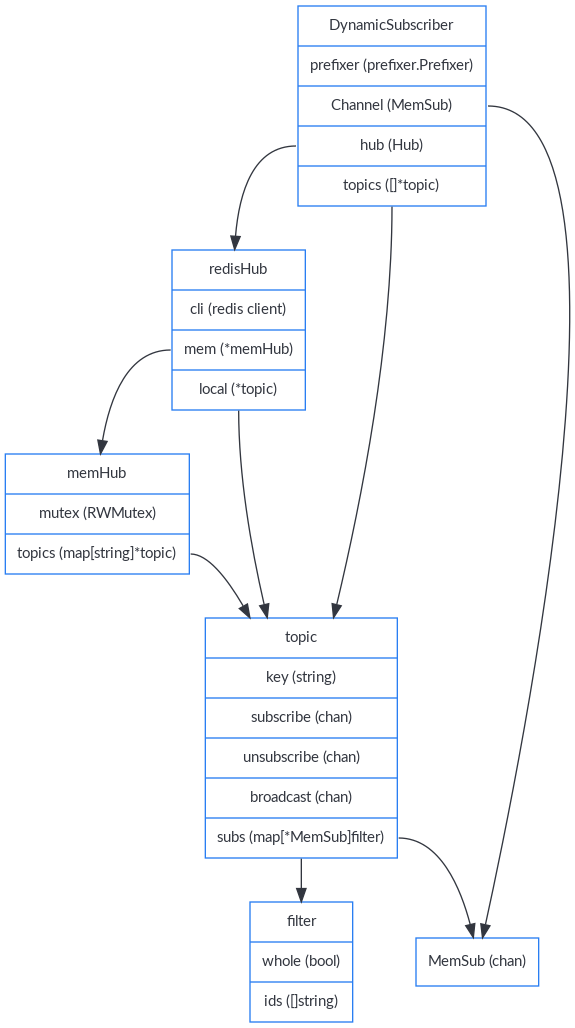
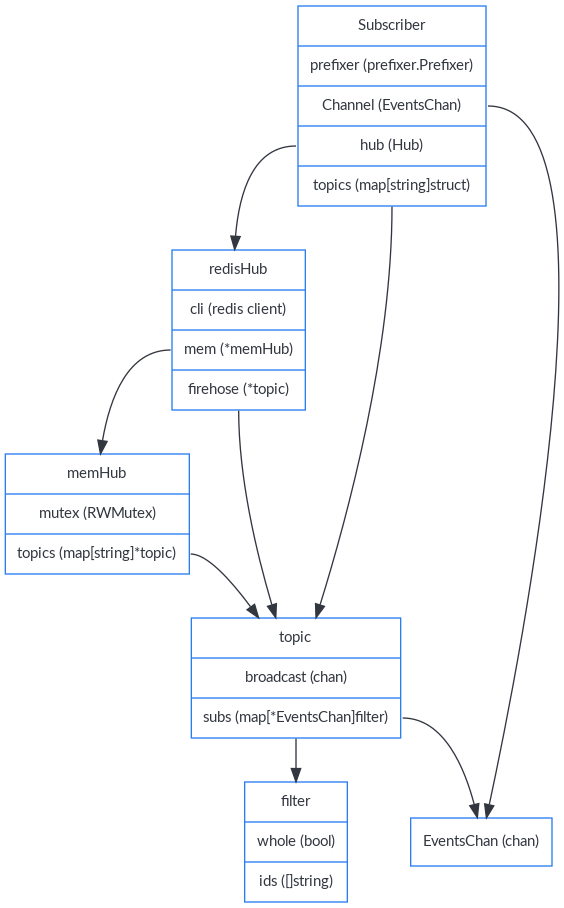
Update diagrams and add some explanations

diff --git a/docs/realtime-intenals.md b/docs/realtime-intenals.md
@@ -1,0 +1,60 @@
+[Table of contents](README.md#table-of-contents)
+
+# Realtime internals
+
+The stack has a realtime package, which can be seen as a pub/sub of events.
+Most events are created by the CouchDB package when a document is created,
+updated or deleted, but there are also some synthetic events like the end of
+the initial synchronization of a Cozy to Cozy sharing. Those events can be
+sent via the realtime websockets to clients and can be used by the scheduler
+to fire triggers.
+
+There are two versions of the Hub implementation: an in-memory one, and a redis
+one. The in-memory one is used by the developers and the self-hosted instances.
+The redis one is used when there are several stacks, to send the events from
+one stack to the others, and then use the in-memory hub internally.
+
+## Model
+
+![Model of realtime package](diagrams/realtime-model.png)
+
+Let's start by the most basic unit. The EventsChan is go channel for sending
+events.
+
+Then, we have the topic. There is one topic per doctype of an instance if
+there is at least one subscriber for it. It receives events via its
+`broadcast` channel.
+
+The mem hub is where the stack keeps the list of topics. There is a mutex to
+protect against race conditions (a sync.Map is not enough, as we also need to
+initialize topics).
+
+The redis hub is here to ensure that each stack can publish the events in its
+own mem hub. It also has the concept of "firehose": it is a special topic where
+every events created on this stack are published. It is used by the scheduler
+for the events trigger. The mem hub is not used for that, as we don't want to
+fire the same triggers n times (one on each stack), but only once.
+
+And then, we have the subscribers. A subscriber is used to receive events. It
+is tied to an instance (via the prefixer) and can subscribes to doctypes. With
+the instance + doctype, the hub can find the right topic, and adds the
+subscriber to the `subs` map of the topic. We have the notion of filter because
+the subscriber may want to receive the events for the whole doctype (subscribe)
+or just for some identifiers (watch).
+
+## Workflow of a realtime event (redis hub)
+
+![Workflow of a realtime event](diagrams/realtime-workflow.png)
+
+1. A client connects to the realtime websocket and subscribe to some doctypes
+2. The stack creates a Subscriber for it and connects it to the mem hub.
+3. Another client sends an HTTP request, which is makes a CouchDB write
+4. This create an event to publish on the redis hub
+5. The event is sent to redis (PUB command)
+6. Each stack listens to redis and receive this event
+7. The redis hub send the event to the mem hub
+8. The mem hub finds the topic for this event, sees that there is subscriber for it, and forward it the event
+9. The subscriber sends the event to the client
+10. The redis hub also send the event to the firehose topic (only on the stack where the event was created)
+11. The redis scheduler is listening to the broadcast and receive the events
+12. With this event, the redis scheduler can look at the matching triggers, and fire them

diff --git a/docs/README.md b/docs/README.md
@@ -49,6 +49,7 @@ Feel free to [open an issue](https://github.com/cozy/cozy-stack/issues/new) for 
 
 -   [Flagship app](flagship.md)
 -   [Move design](move-design.md)
+-   [Realtime internals](realtime-internals.md)
 -   [Sharing design](sharing-design.md)
 -   [Workflow of the konnectors](konnectors-workflow.md)
 
